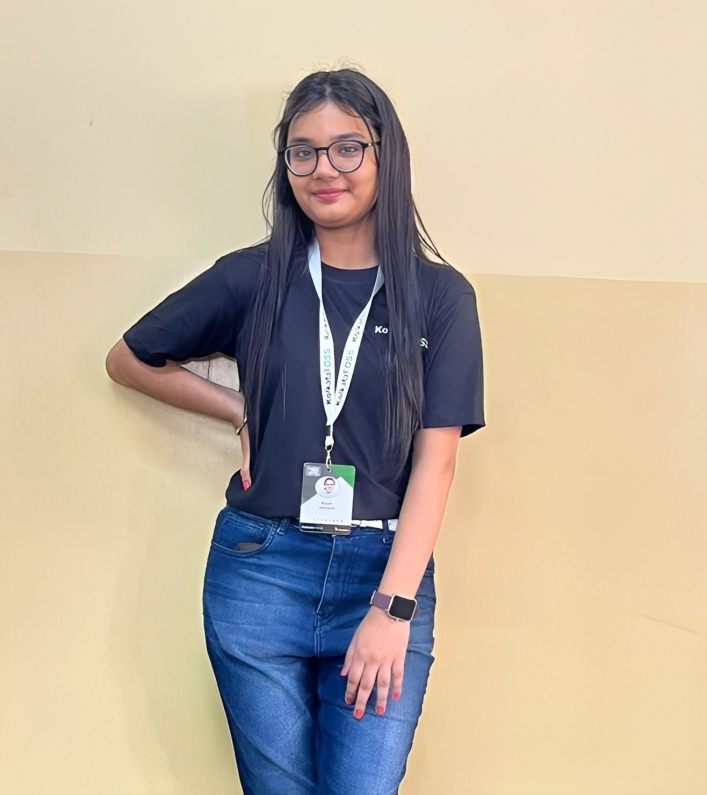
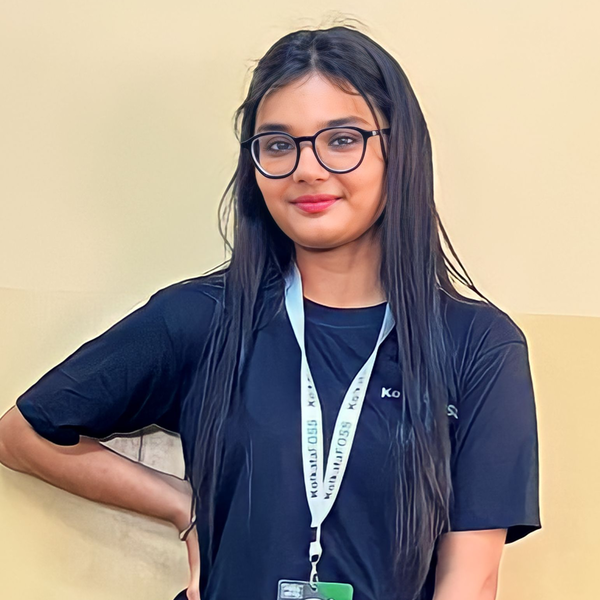
Fix Kajal image

diff --git a/src/assets/data/overAllCoordinatorsData.js b/src/assets/data/overAllCoordinatorsData.js
@@ -1,7 +1,7 @@
 import Manish from "../team/team-1.png";
 import Sagnik from "../team/team-2.png";
 import Shubham from "../team/team-3.png";
-import Kajal from "../team/Kajal-1.png";
+import Kajal from "../team/Kajal.png";
 
 const overAllCoordinaters = [
   {
